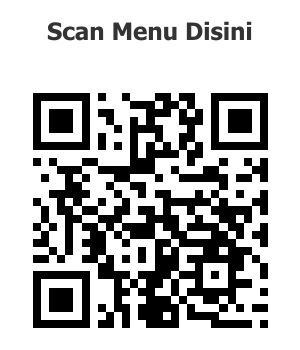
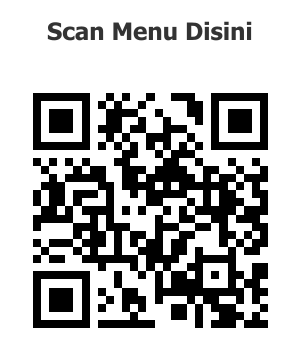
progress 2

Changed region(s): [[0.09, 0.2571, 0.9, 0.9429]]

diff --git a/controllers/pesananController.js b/controllers/pesananController.js
@@ -122,14 +122,14 @@ exports.createPesanan = async (req, res) => {
       total_harga,
     });
 
-    // 🔔 Emit event realtime ke admin
-    io.emit("pesananBaru", {
-      id_pesanan: pesananBaru.id_pesanan,
-      id_meja,
-      no_meja: meja.no_meja, // penting agar admin tahu meja berapa
-      status_pesanan: pesananBaru.status_pesanan,
-      tanggal_pesan: pesananBaru.tanggal_pesan,
-    });
+    // // 🔔 Emit event realtime ke admin
+    // io.emit("pesananBaru", {
+    //   id_pesanan: pesananBaru.id_pesanan,
+    //   id_meja,
+    //   no_meja: meja.no_meja, // penting agar admin tahu meja berapa
+    //   status_pesanan: pesananBaru.status_pesanan,
+    //   tanggal_pesan: pesananBaru.tanggal_pesan,
+    // });
 
     res.status(200).json({
       message: "Pesanan berhasil dibuat",
@@ -138,5 +138,20 @@ exports.createPesanan = async (req, res) => {
   } catch (err) {
     console.error("❌ Error createPesanan:", err);
     res.status(500).send("Gagal membuat pesanan baru");
+  }
+};
+
+exports.getJumlahPesanan = async (req, res) => {
+  try {
+    const totalPesanan = await Pesanan.count({
+      where: {
+        status_pesanan: { [Op.notIn]: ["Selesai", "Completed"] }
+      }
+    });
+
+    res.json({ total: totalPesanan });
+  } catch (err) {
+    console.error("Error getJumlahPesanan:", err);
+    res.status(500).json({ total: 0 });
   }
 };

diff --git a/controllers/menuUserController.js b/controllers/menuUserController.js
@@ -117,3 +117,26 @@ exports.getMenuById = async (req, res) => {
     res.status(500).send("Terjadi kesalahan: " + error.message);
   }
 };
+
+
+exports.getMenuPage = async (req, res) => {
+  // Jika user akses /menu?meja=0 maka set session Takeaway
+  if (req.query.meja !== undefined) {
+    req.session.id_meja = req.query.meja;
+    req.session.no_meja = req.query.meja === "0" ? "Takeaway" : `Meja ${req.query.meja}`;
+  }
+
+  // Jika tetap tidak ada session → fallback ke Takeaway
+  if (!req.session.id_meja) {
+    req.session.id_meja = 0;
+    req.session.no_meja = "Takeaway";
+  }
+
+  const menu = await Menu.findAll();
+
+  res.render("menu", {
+    title: "Menu",
+    menu,
+    meja: req.session.no_meja,
+  });
+};

diff --git a/utils/generateQrMeja.js b/utils/generateQrMeja.js
@@ -5,7 +5,7 @@ const fs = require('fs');
 const path = require('path');
 
 async function generateQrMeja(no_meja, outputDir) {
-  const menuUrl = `http://10.44.10.38:3000/menu?meja=${no_meja}`;
+  const menuUrl = `http://192.168.1.42:3000/menu?meja=${no_meja}`;
   const qrFile = `meja-${no_meja}.png`;
   const qrPath = path.join(outputDir, qrFile);
   const qrRelativePath = `/uploads/qrcode/${qrFile}`;

diff --git a/routes/pesanan.js b/routes/pesanan.js
@@ -3,5 +3,6 @@ const router = express.Router();
 const pesananController = require("../controllers/pesananController");
 
 router.get("/status/:id_meja", pesananController.getPesananByMeja);
+router.get("/jumlah-pesanan", pesananController.getJumlahPesanan);
 
 module.exports = router;
